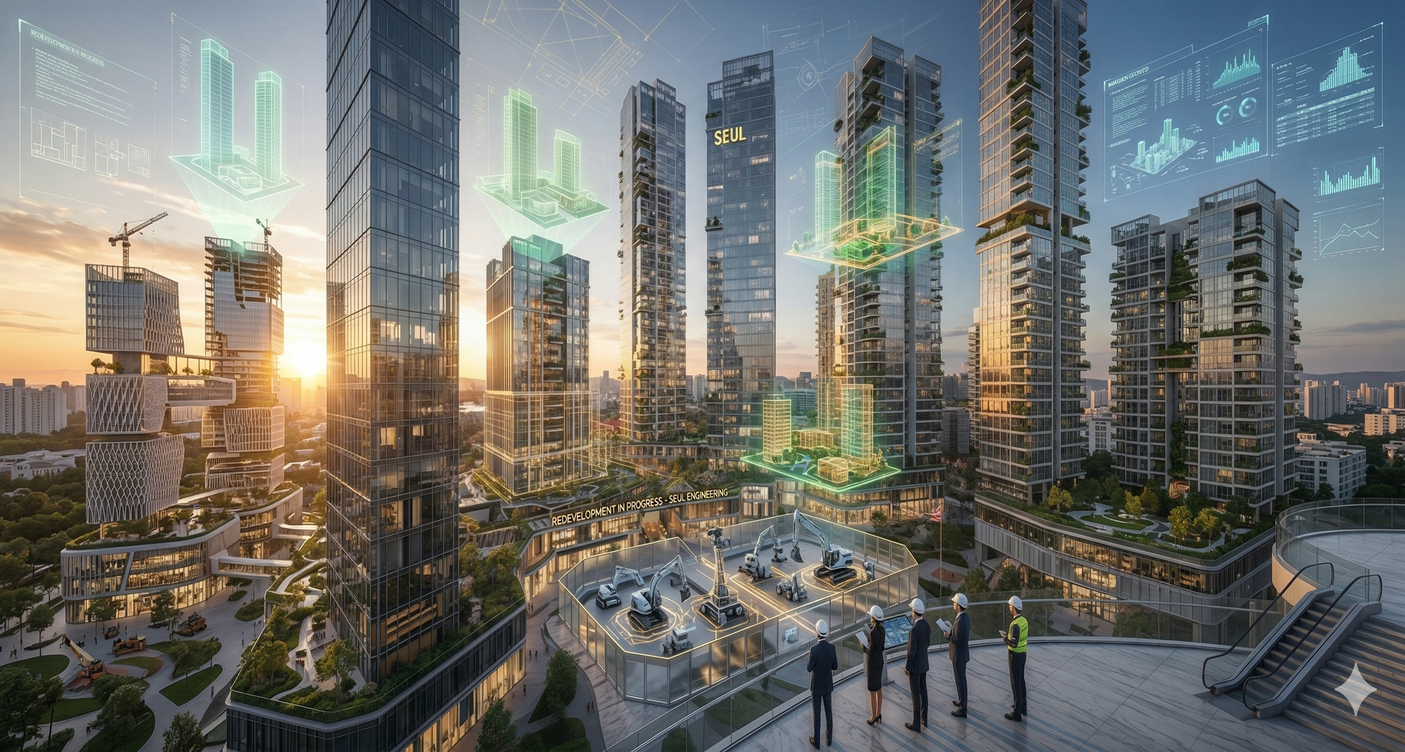
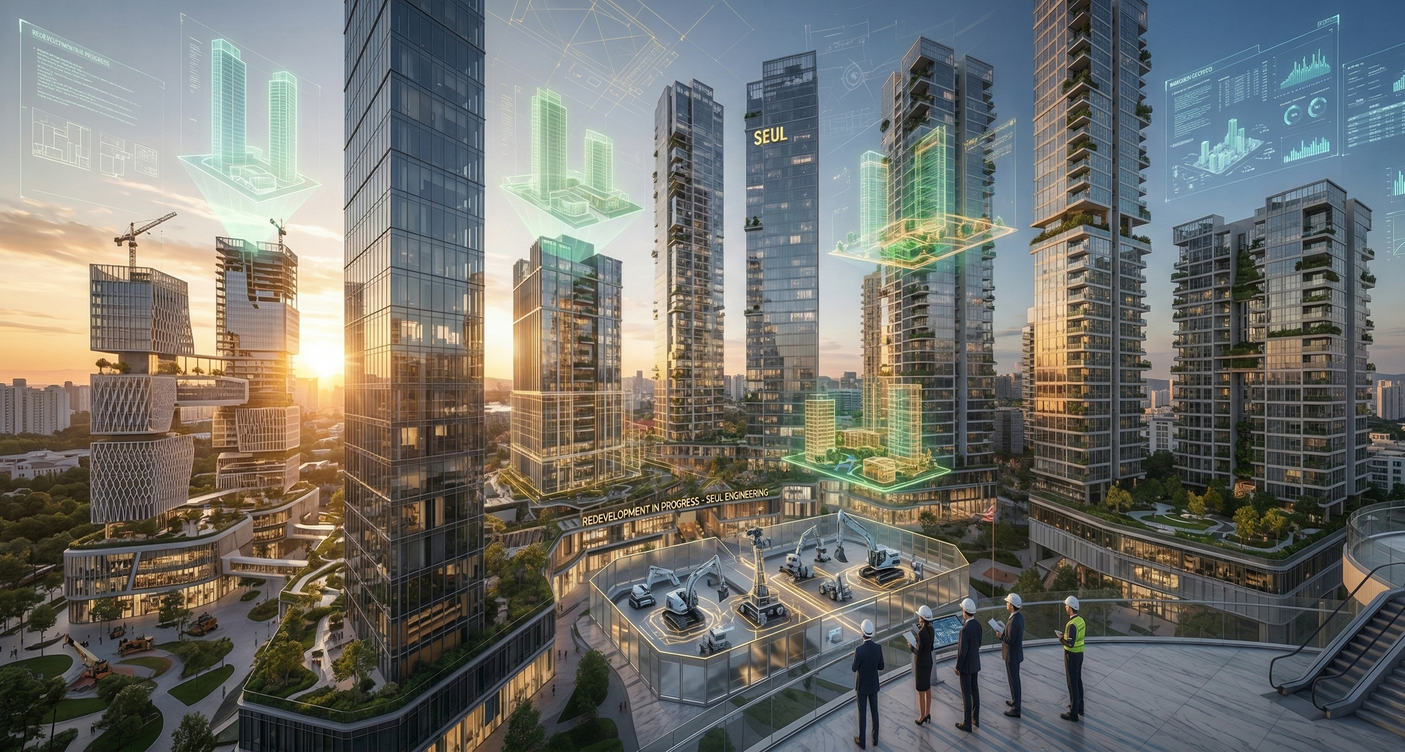
메인 히어로 3안 적용 + 사옥/사업성검토 사진 교체
- 메인: 8장 사진 페이드 슬라이드쇼(5초 간격, 1.8초 크로스페이드)
- 메인 카드: 네이비 글래스 반투명(0.28) + blur 6px + 은은한 border
- 배경: brightness 0.55 / saturate 0.8 (테크감 억제, 정비사업 회사 톤)
- 설명문/버튼 가독성 향상, 퀵메뉴 업무실적 중복→사업성검토 교체
- 회사소개: 미경폴더 사옥사진으로 교체 (1405x752)
- 사업성검토: 미경폴더 18.사업성검토기 사진으로 교체 (1405x752)

diff --git a/redevelopment/index.html b/redevelopment/index.html
@@ -126,8 +126,48 @@
         .hero-banner {
             position: relative;
             overflow: hidden;
-            background: linear-gradient(160deg, #0A0F1C 0%, #142644 50%, #0A0F1C 100%);
+            background: linear-gradient(135deg, #0F1D35 0%, #142644 40%, #0A0F1C 100%);
             padding: 40px 0 36px;
+        }
+        /* Hero slideshow */
+        .hero-slideshow {
+            position: absolute; top: 0; right: 0;
+            width: 58%; height: 100%; z-index: 0;
+        }
+        .hero-slideshow img {
+            position: absolute; top: 0; left: 0;
+            width: 100%; height: 100%;
+            object-fit: cover; object-position: center 30%;
+            display: block;
+            filter: brightness(0.55) contrast(1.0) saturate(0.8);
+            opacity: 0;
+            transition: opacity 1.8s ease-in-out;
+        }
+        .hero-slideshow img.active { opacity: 1; }
+        .hero-slideshow::after {
+            content: ''; position: absolute; inset: 0;
+            background: linear-gradient(90deg,
+                #0A0F1C 0%, rgba(10,15,28,0.94) 6%,
+                rgba(14,24,42,0.65) 24%, rgba(18,32,56,0.4) 48%,
+                rgba(20,38,68,0.28) 72%, rgba(20,38,68,0.22) 100%
+            ); z-index: 1;
+        }
+        .hero-slideshow::before {
+            content: ''; position: absolute;
+            top: 0; bottom: 0; left: 22%; width: 56%;
+            pointer-events: none;
+            background: linear-gradient(90deg,
+                rgba(15,26,46,0) 0%, rgba(15,26,46,0.06) 25%,
+                rgba(14,22,40,0.16) 52%, rgba(14,22,40,0.18) 62%,
+                rgba(15,26,46,0.08) 80%, rgba(15,26,46,0) 100%
+            ); filter: blur(24px); z-index: 2;
+        }
+        @media (max-width: 1024px) {
+            .hero-slideshow { width: 100%; opacity: 0.25; }
+            .hero-slideshow::after { background: linear-gradient(180deg, rgba(10,15,28,0.5) 0%, rgba(20,38,68,0.7) 100%); }
+        }
+        @media (max-width: 600px) {
+            .hero-slideshow { opacity: 0.15; }
         }
 
         /* 배경 그리드 */
@@ -188,17 +228,18 @@
         /* 라벨 */
         .hero-label {
             display: inline-flex; align-items: center; gap: 10px;
-            padding: 8px 20px; font-size: 11px; font-weight: 600;
+            padding: 8px 20px; font-size: 11px; font-weight: 700;
             letter-spacing: 2.5px; text-transform: uppercase;
-            color: #C3A569; border: 1px solid rgba(195,165,105,.2);
+            color: #C3A569; border: 1px solid rgba(195,165,105,.25);
             border-radius: 2px; margin-bottom: 18px;
         }
         .hero-label i { font-size: 10px; color: #C3A569; }
 
         /* 헤드라인 */
         .hero-section h1 {
-            font-size: 36px; font-weight: 900; letter-spacing: -1.2px;
-            color: #fff; line-height: 1.35; margin-bottom: 14px;
+            font-size: 38px; font-weight: 900; letter-spacing: -0.8px;
+            color: #fff; line-height: 1.4; margin-bottom: 16px;
+            text-shadow: 0 2px 12px rgba(0,0,0,0.3);
         }
         .hero-section h1 em {
             font-style: normal; color: #C3A569;
@@ -207,8 +248,9 @@
 
         /* 서브카피 */
         .hero-subtitle {
-            font-size: 14px; font-weight: 400; color: rgba(255,255,255,.45);
-            line-height: 1.75; margin-bottom: 24px; max-width: 540px;
+            font-size: 15px; font-weight: 500; color: rgba(255,255,255,.76);
+            line-height: 1.8; margin-bottom: 24px; max-width: 540px;
+            text-shadow: 0 1px 8px rgba(0,0,0,0.2);
             word-break: keep-all;
         }
 
@@ -219,10 +261,11 @@
         }
         .hero-cap-item {
             flex: 1; padding: 16px 18px;
-            background: rgba(255,255,255,.03);
-            border: 1px solid rgba(195,165,105,.1);
+            background: rgba(14,22,38,0.28);
+            border: 1px solid rgba(255,255,255,0.12);
             border-radius: 6px; text-align: left;
             transition: all .35s ease; position: relative; overflow: hidden;
+            backdrop-filter: blur(6px); -webkit-backdrop-filter: blur(6px);
         }
         .hero-cap-item::before {
             content: ''; position: absolute; top: 0; left: 0;
@@ -231,17 +274,17 @@
             opacity: 0; transition: opacity .35s ease;
         }
         .hero-cap-item:hover {
-            background: rgba(255,255,255,.05);
-            border-color: rgba(195,165,105,.22);
+            background: rgba(14,22,40,0.40);
+            border-color: rgba(195,165,105,.18);
             transform: translateY(-2px);
         }
         .hero-cap-item:hover::before { opacity: 1; }
         .hero-cap-num {
-            font-size: 10px; font-weight: 700; color: rgba(195,165,105,.35);
+            font-size: 10px; font-weight: 700; color: rgba(195,165,105,.5);
             letter-spacing: 2px; margin-bottom: 8px;
         }
         .hero-cap-title {
-            font-size: 14px; font-weight: 700; color: rgba(255,255,255,.85);
+            font-size: 14px; font-weight: 800; color: #fff;
             line-height: 1.5;
         }
 
@@ -263,9 +306,9 @@
         .hero-actions .btn-hero-outline {
             display: inline-flex; align-items: center; gap: 10px;
             height: 50px; padding: 0 32px;
-            background: transparent; color: rgba(255,255,255,.65);
+            background: transparent; color: rgba(255,255,255,.75);
             font-size: 14px; font-weight: 600;
-            border: 1px solid rgba(255,255,255,.12);
+            border: 1px solid rgba(255,255,255,.18);
             border-radius: 4px; cursor: pointer;
             transition: all .35s ease;
         }
@@ -611,6 +654,16 @@
 <!-- ===== HERO (컴팩트 상단 배너) ===== -->
 <section class="hero-section">
     <div class="hero-banner">
+        <div class="hero-slideshow" id="heroSlideshow">
+            <img src="jpg/hero_about.png" alt="" class="active">
+            <img src="jpg/hero_vision.png" alt="">
+            <img src="jpg/hero_services.png" alt="">
+            <img src="jpg/hero_portfolio.png" alt="">
+            <img src="jpg/hero_library.png" alt="">
+            <img src="jpg/hero_community.png" alt="">
+            <img src="jpg/hero_contact.png" alt="">
+            <img src="jpg/hero_feasibility.png" alt="">
+        </div>
         <div class="hero-bg-grid"></div>
         <div class="hero-skyline"></div>
         <div class="hero-glow"></div>
@@ -674,9 +727,9 @@
                 <div class="cat-icon"><i class="fa-solid fa-comments"></i></div>
                 <span class="cat-label">커뮤니티</span>
             </a>
-            <a href="pages/portfolio.html" class="cat-item">
+            <a href="pages/feasibility.html" class="cat-item">
                 <div class="cat-icon"><i class="fa-solid fa-chart-line"></i></div>
-                <span class="cat-label">업무실적</span>
+                <span class="cat-label">사업성 검토</span>
             </a>
             <a href="pages/contact.html" class="cat-item">
                 <div class="cat-icon"><i class="fa-solid fa-envelope"></i></div>
@@ -1086,6 +1139,18 @@ document.addEventListener('keydown', e => { if(e.key==='Escape' && overlay.class
                 '<span class="comm-time">'+ago+'</span></div>';
         }).join('');
     }
+})();
+</script>
+<script>
+(function(){
+    const imgs = document.querySelectorAll('#heroSlideshow img');
+    if(!imgs.length) return;
+    let cur = 0;
+    setInterval(()=>{
+        imgs[cur].classList.remove('active');
+        cur = (cur + 1) % imgs.length;
+        imgs[cur].classList.add('active');
+    }, 5000);
 })();
 </script>
 </body>
